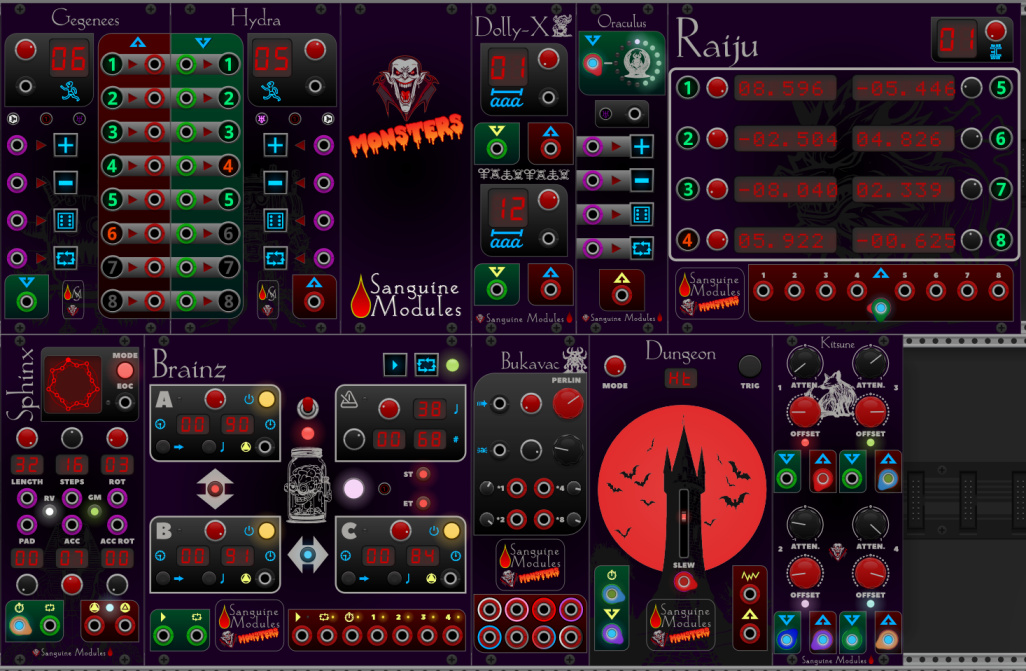
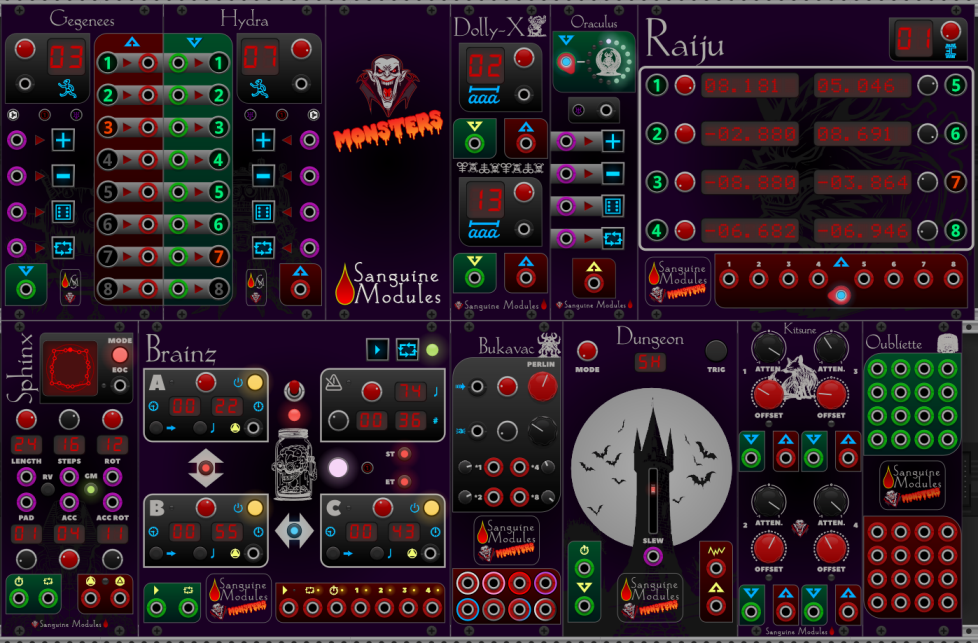
Update: docs and family pic.

Changed region(s): [[0.0, 0.0, 1.0, 1.0], [0.3681, 0.5288, 0.4601, 0.5599], [0.1227, 0.5288, 0.2147, 0.5599]]

diff --git a/CHANGELOG.md b/CHANGELOG.md
@@ -41,6 +41,10 @@
 
 - Add Kitsune: a quad attenuverter, offsetter and inverter.
 
+- Add: Oubliette: a null sink and cable parking for your wires. Also works as a null voltage source.
+
 - Sphinx can now run in reverse.
 
 - Fix: Sphinx won't output an EOC trigger on the first round after starting or reset.
+
+- Change: use float_4 for Dolly-X voltages.

diff --git a/README.md b/README.md
@@ -36,6 +36,10 @@ An attenuverter, offsetter and inverter with four channels.
 
 A polyphonic to monophonic switch.
 
+## Oubliette
+
+A null sink and cable parking for your wires. Also works as a null voltage source.
+
 ## SanguineRaiju
 
 A fixed voltages source.
